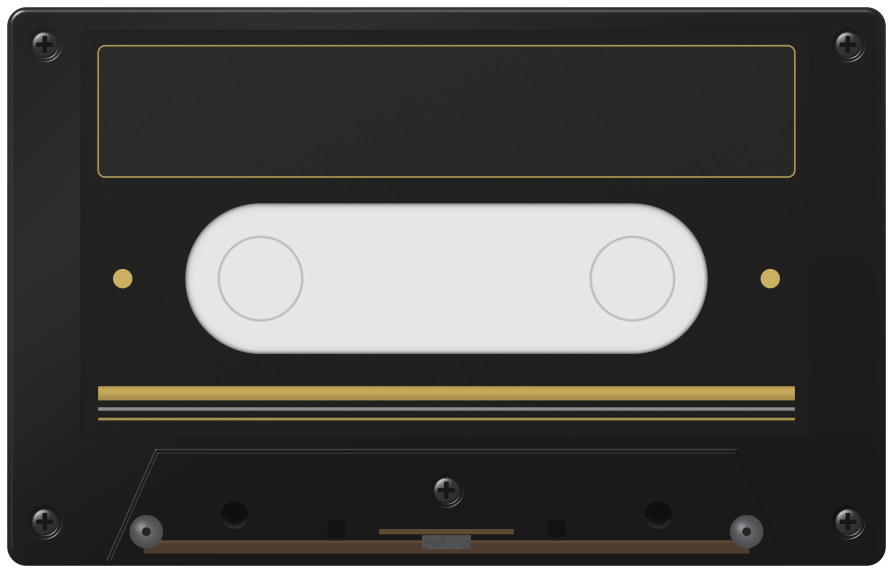
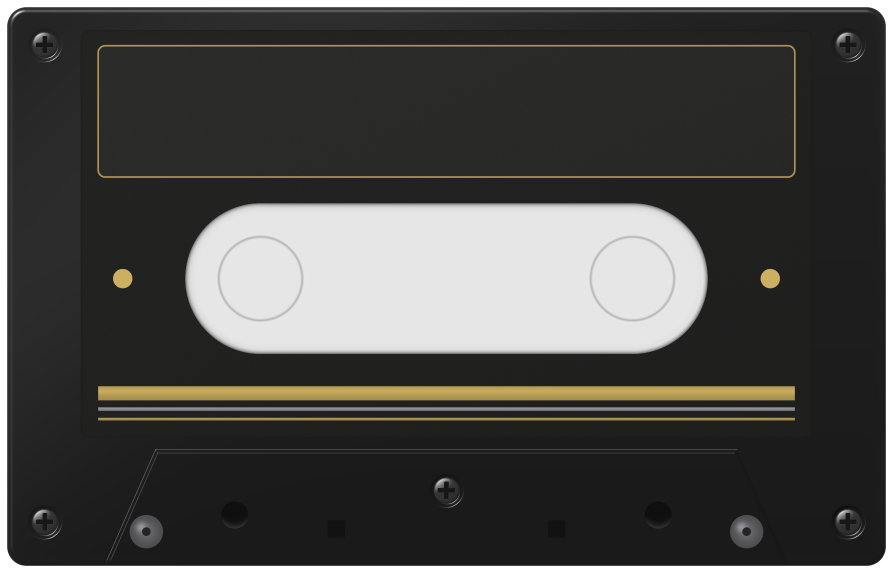
cassette: no tape or felt pad showing through the shell
The tape along the bottom edge and the felt pressure pad on its spring
only show on a clear cassette; the smoked one hides them.

Changed region(s): [[0.1512, 0.9197, 0.8466, 0.9791]]

diff --git a/native-ui-qt/tools/np-anim/cassette.py b/native-ui-qt/tools/np-anim/cassette.py
@@ -715,25 +715,19 @@ def build_cassette(out, variant="graphite"):
     base = base + (0.020 * np.exp(-e / 0.7) * (0.35 + 0.65 * smoothstep(CAS_H * 0.6, 0, Y)))
     col = gray3(base, (1.0, 1.0, 1.04))
 
-    # inside the trapezoid, seen through the smoke: guide rollers, the tape,
-    # capstan and pin holes, the felt pressure pad on its spring
+    # inside the trapezoid, seen through the smoke: the guide rollers, the
+    # capstan and pin holes. The tape along the bottom edge and the felt
+    # pressure pad on its spring are not drawn: behind the smoked shell
+    # they only show on a clear cassette.
     trap = cv.cov(sd_t)
     smoke = rgb3((0.55, 0.55, 0.60))
     inner = gray3(np.full_like(X, 0.0045))
-    ty0, ty1 = mm(60.9), mm(62.4)
-    tape = cv.cov(sd_rrect(X, Y, mm(15.6), ty0, mm(84.8), ty1, 0.2))
-    tape_c = rgb3((0.150, 0.080, 0.036)) * (1 + 0.8 * np.exp(-((Y - ty0 - 0.3) / 0.35) ** 2))[..., None]
-    inner = mix(inner, tape_c, tape)
     for rx in (15.9, 84.5):
         rr = np.hypot(Xm - rx, Ym - 59.9) * MM
         ro = cv.cov(rr - mm(1.9))
         rc = gray3(0.30 * (0.5 + 0.5 * smoothstep(mm(1.9), 0, rr)) + 0.4 * np.exp(-((Xm - rx + 0.6) ** 2 + (Ym - 59.4) ** 2) / 0.3))
         rc = mix(rc, gray3(np.full_like(X, 0.02)), cv.cov(rr - mm(0.5)))
         inner = mix(inner, rc, ro)
-    pad = cv.cov(sd_rrect(X, Y, mm(47.4), mm(60.3), mm(53.0), mm(61.9), 0.3))
-    inner = mix(inner, gray3(0.16 + 0.03 * grain(X.shape, rng, 0.6)), pad)
-    spring = cv.cov(sd_rrect(X, Y, mm(42.5), mm(59.6), mm(57.9), mm(60.2), 0.3))
-    inner = mix(inner, rgb3((0.22, 0.14, 0.05)), spring)
     col = mix(col, inner * smoke + col * 0.6, trap * 0.85)
     for hx in (26.0, 74.4):
         rh_ = np.hypot(Xm - hx, Ym - 58.0) * MM
